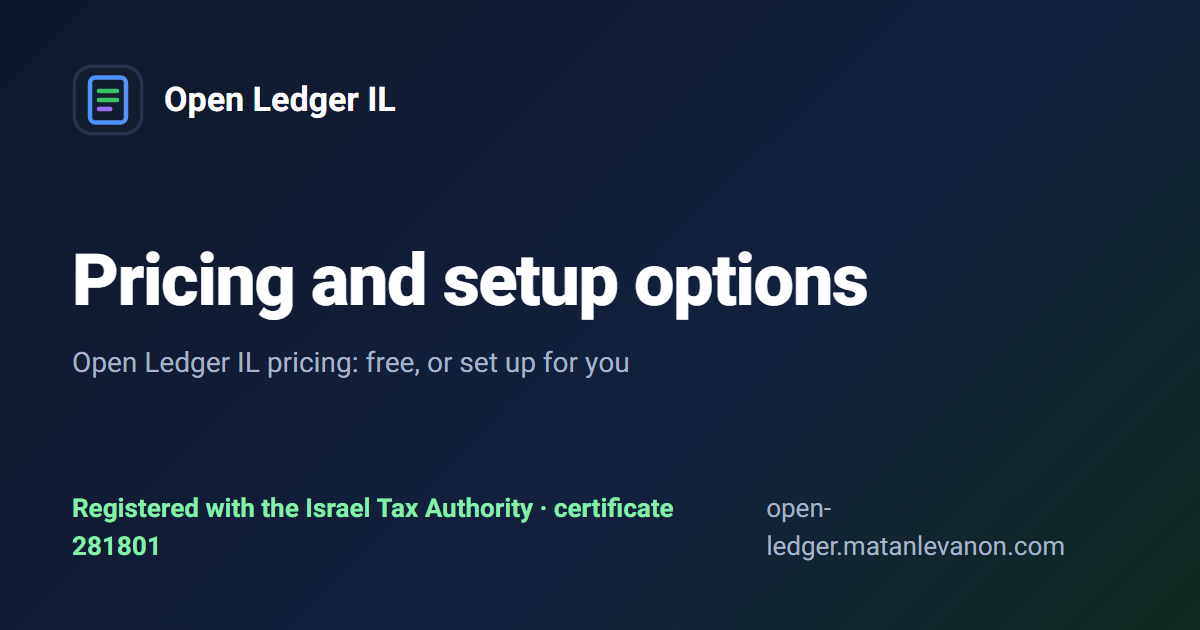
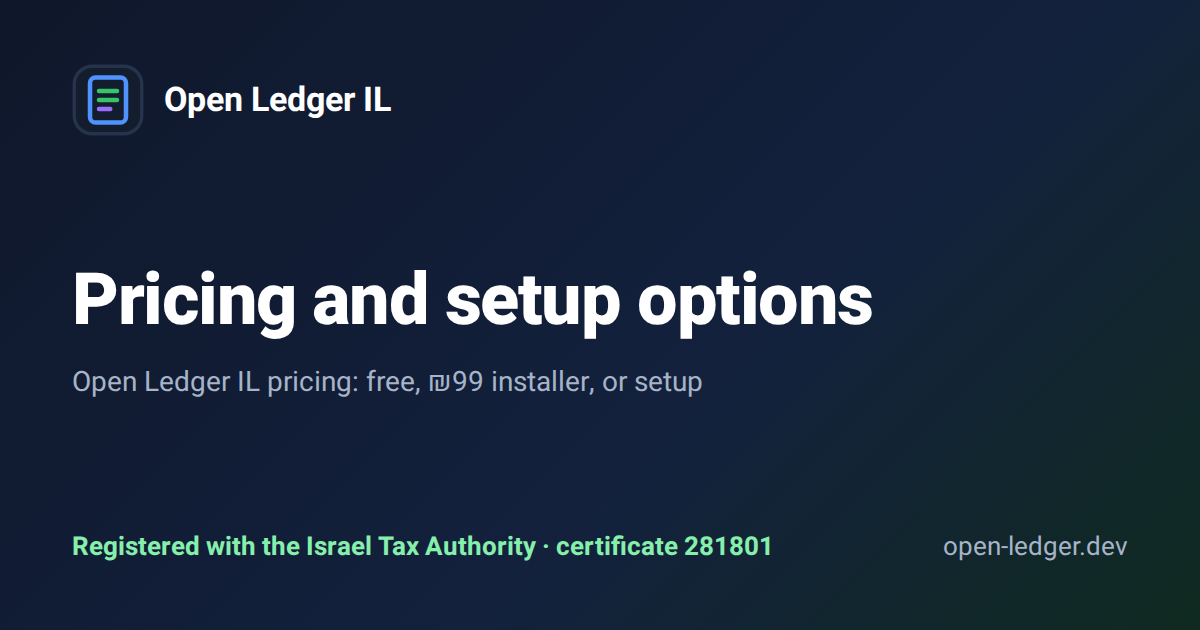
fix(site): SEO and GEO fixes from the audit
Pricing title, description and share card now name the ₪99 installer next to free and the ₪699 setup. Short help titles carry the brand (· Open Ledger IL). Launch pricing is called a launch price everywhere, llms.txt included. The setup form's Turnstile script loads only when the form nears the screen, so it no longer delays the pricing page's first paint. Every reply sends Strict-Transport-Security.

Changed region(s): [[0.0617, 0.3921, 0.74, 0.6333], [0.0617, 0.7841, 0.9558, 0.9048], [0.1542, 0.1206, 0.3392, 0.181]]

diff --git a/site/pricing/index.html b/site/pricing/index.html
@@ -3,16 +3,16 @@
 <head>
 <meta charset="utf-8">
 <meta name="viewport" content="width=device-width, initial-scale=1">
-<title>מחירים: Open Ledger IL בחינם או בהקמה עבורך</title>
-<meta name="description" content="הפעלת Open Ledger IL בחינם מקוד המקור, או הקמה עבורך ב-₪699 חד פעמי. מה צריך, איך זה עובד ומה המגבלות.">
+<title>מחירים: Open Ledger IL בחינם, ב-₪99 או בהקמה עבורך</title>
+<meta name="description" content="הפעלת Open Ledger IL בחינם מקוד המקור, התקנה עצמית עם תוכנת ההתקנה המחוברת ב-₪99, או הקמה עבורך ב-₪699. תשלום אחד, בלי מנוי.">
 <link rel="canonical" href="https://open-ledger.dev/pricing/">
 <link rel="alternate" hreflang="he" href="https://open-ledger.dev/pricing/">
 <link rel="alternate" hreflang="en" href="https://open-ledger.dev/en/pricing/">
 <link rel="alternate" hreflang="x-default" href="https://open-ledger.dev/pricing/">
 <link rel="alternate" type="text/markdown" href="/pricing/index.md">
 <meta property="og:site_name" content="Open Ledger IL">
-<meta property="og:title" content="מחירים: Open Ledger IL בחינם או בהקמה עבורך">
-<meta property="og:description" content="הפעלת Open Ledger IL בחינם מקוד המקור, או הקמה עבורך ב-₪699 חד פעמי. מה צריך, איך זה עובד ומה המגבלות.">
+<meta property="og:title" content="מחירים: Open Ledger IL בחינם, ב-₪99 או בהקמה עבורך">
+<meta property="og:description" content="הפעלת Open Ledger IL בחינם מקוד המקור, התקנה עצמית עם תוכנת ההתקנה המחוברת ב-₪99, או הקמה עבורך ב-₪699. תשלום אחד, בלי מנוי.">
 <meta property="og:type" content="website">
 <meta property="og:url" content="https://open-ledger.dev/pricing/">
 <meta property="og:image" content="https://open-ledger.dev/assets/og/he-pricing.png">
@@ -20,8 +20,8 @@
 <meta property="og:image:height" content="630">
 <meta property="og:locale" content="he_IL">
 <meta name="twitter:card" content="summary_large_image">
-<meta name="twitter:title" content="מחירים: Open Ledger IL בחינם או בהקמה עבורך">
-<meta name="twitter:description" content="הפעלת Open Ledger IL בחינם מקוד המקור, או הקמה עבורך ב-₪699 חד פעמי. מה צריך, איך זה עובד ומה המגבלות.">
+<meta name="twitter:title" content="מחירים: Open Ledger IL בחינם, ב-₪99 או בהקמה עבורך">
+<meta name="twitter:description" content="הפעלת Open Ledger IL בחינם מקוד המקור, התקנה עצמית עם תוכנת ההתקנה המחוברת ב-₪99, או הקמה עבורך ב-₪699. תשלום אחד, בלי מנוי.">
 <meta name="twitter:image" content="https://open-ledger.dev/assets/og/he-pricing.png">
 <link rel="icon" href="/favicon.svg" type="image/svg+xml">
 <link rel="preload" href="/assets/fonts/heebo-hebrew.7fec3b95.woff2" as="font" type="font/woff2" crossorigin>
@@ -313,7 +313,7 @@ section[id] { scroll-margin-top: 64px; }
 </style>
 <script type="application/ld+json">{"@context":"https://schema.org","@type":"Organization","@id":"https://open-ledger.dev/#organization","name":"Open Ledger IL","url":"https://open-ledger.dev/","logo":"https://open-ledger.dev/assets/logo.png","sameAs":["https://github.com/matanlevanon/open-ledger-il"]}</script>
 <script type="application/ld+json">{"@context":"https://schema.org","@type":"WebSite","@id":"https://open-ledger.dev/#website","name":"Open Ledger IL","url":"https://open-ledger.dev/","inLanguage":["he","en"],"publisher":{"@id":"https://open-ledger.dev/#organization"}}</script>
-<script type="application/ld+json">{"@context":"https://schema.org","@type":"SoftwareApplication","name":"Open Ledger IL","alternateName":"חשבונאות פתוחה","url":"https://open-ledger.dev/","description":"הפעלת Open Ledger IL בחינם מקוד המקור, או הקמה עבורך ב-₪699 חד פעמי. מה צריך, איך זה עובד ומה המגבלות.","applicationCategory":"BusinessApplication","operatingSystem":"Web","softwareVersion":"1.7.1","inLanguage":["he","en"],"license":"https://fsl.software/FSL-1.1-ALv2.template.md","offers":[{"@type":"Offer","name":"חינם מקוד המקור","price":"0","priceCurrency":"ILS"},{"@type":"Offer","name":"התקנה עצמית, מחוברת","price":"99","priceCurrency":"ILS","url":"https://get.open-ledger.dev/buy"},{"@type":"Offer","name":"הקמה עבורך","price":"699","priceCurrency":"ILS"}],"publisher":{"@id":"https://open-ledger.dev/#organization"},"screenshot":"https://open-ledger.dev/assets/screenshots/dashboard-he.c4a7384a.png"}</script>
+<script type="application/ld+json">{"@context":"https://schema.org","@type":"SoftwareApplication","name":"Open Ledger IL","alternateName":"חשבונאות פתוחה","url":"https://open-ledger.dev/","description":"הפעלת Open Ledger IL בחינם מקוד המקור, התקנה עצמית עם תוכנת ההתקנה המחוברת ב-₪99, או הקמה עבורך ב-₪699. תשלום אחד, בלי מנוי.","applicationCategory":"BusinessApplication","operatingSystem":"Web","softwareVersion":"1.7.1","inLanguage":["he","en"],"license":"https://fsl.software/FSL-1.1-ALv2.template.md","offers":[{"@type":"Offer","name":"חינם מקוד המקור","price":"0","priceCurrency":"ILS"},{"@type":"Offer","name":"התקנה עצמית, מחוברת","price":"99","priceCurrency":"ILS","url":"https://get.open-ledger.dev/buy"},{"@type":"Offer","name":"הקמה עבורך","price":"699","priceCurrency":"ILS"}],"publisher":{"@id":"https://open-ledger.dev/#organization"},"screenshot":"https://open-ledger.dev/assets/screenshots/dashboard-he.c4a7384a.png"}</script>
 <script type="application/ld+json">{"@context":"https://schema.org","@type":"BreadcrumbList","itemListElement":[{"@type":"ListItem","position":1,"name":"דף הבית","item":"https://open-ledger.dev/"},{"@type":"ListItem","position":2,"name":"מחירים","item":"https://open-ledger.dev/pricing/"}]}</script>
 </head>
 <body>
@@ -409,7 +409,7 @@ section[id] { scroll-margin-top: 64px; }
         <label class="full">משהו שכדאי שאדע<textarea name="message" rows="4"></textarea></label>
         <label class="hp" aria-hidden="true">Leave empty<input name="hp" tabindex="-1" autocomplete="off"></label>
         <div class="full cf-turnstile" data-sitekey="0x4AAAAAAFfBiE9Ucglunw0l" data-size="flexible" data-appearance="interaction-only"></div>
-        <script src="https://challenges.cloudflare.com/turnstile/v0/api.js" async defer></script>
+        <script>(function(){var d=false,f=document.querySelector(".setup-form");function go(){if(d)return;d=true;var s=document.createElement("script");s.src="https://challenges.cloudflare.com/turnstile/v0/api.js";s.async=true;document.head.appendChild(s);}if(!f||!("IntersectionObserver" in window)){go();return;}f.addEventListener("focusin",go,{once:true});new IntersectionObserver(function(e,o){if(e.some(function(x){return x.isIntersecting;})){go();o.disconnect();}},{rootMargin:"300px"}).observe(f);})();</script>
         <div class="full"><button class="btn btn-primary" type="submit">שליחת בקשה</button></div>
         <p class="status" role="status"></p>
       </form>
@@ -441,7 +441,7 @@ section[id] { scroll-margin-top: 64px; }
 
 
   <section class="plain" id="key-facts">
-    <div class="wrap"><div class="facts"><h2>עובדות עיקריות</h2><ul><li>Open Ledger IL רשומה ברשות המסים כתוכנה לניהול מערכת חשבונות ממוחשבת, בתעודה 281801.</li><li>היא רצה בחשבון Cloudflare של בעל העסק, והנתונים נשארים במסד הנתונים שלו.</li><li>היא חינמית לעסק שלכם, ברישיון FSL-1.1.</li><li>הקמה עבורך עולה ₪699, חד פעמי, בלי מנוי. זה מחיר השקה לגרסה הראשונה, 30% הנחה מהמחיר הרגיל של ₪999, לזמן מוגבל.</li><li>היא תומכת בעוסק פטור ובעוסק מורשה.</li><li>היא מבקשת מרשות המסים מספרי הקצאה לחשבוניות המס שצריכות אותם.</li><li>תוכנת ההתקנה המחוברת, שמריצים לבד, עולה ₪99, חד פעמי. זה מחיר השקה לגרסה הראשונה, 50% הנחה מהמחיר הרגיל של ₪199, לזמן מוגבל.</li></ul></div></div>
+    <div class="wrap"><div class="facts"><h2>עובדות עיקריות</h2><ul><li>Open Ledger IL רשומה ברשות המסים כתוכנה לניהול מערכת חשבונות ממוחשבת, בתעודה 281801.</li><li>היא רצה בחשבון Cloudflare של בעל העסק, והנתונים נשארים במסד הנתונים שלו.</li><li>היא חינמית לעסק שלכם, ברישיון FSL-1.1.</li><li>הקמה עבורך עולה ₪699, חד פעמי, בלי מנוי. זה מחיר השקה, 30% הנחה מהמחיר הרגיל של ₪999, לזמן מוגבל.</li><li>היא תומכת בעוסק פטור ובעוסק מורשה.</li><li>היא מבקשת מרשות המסים מספרי הקצאה לחשבוניות המס שצריכות אותם.</li><li>תוכנת ההתקנה המחוברת, שמריצים לבד, עולה ₪99, חד פעמי. זה מחיר השקה, 50% הנחה מהמחיר הרגיל של ₪199, לזמן מוגבל.</li></ul></div></div>
   </section>
   <section id="how">
     <div class="wrap">

diff --git a/site/en/pricing/index.html b/site/en/pricing/index.html
@@ -3,16 +3,16 @@
 <head>
 <meta charset="utf-8">
 <meta name="viewport" content="width=device-width, initial-scale=1">
-<title>Open Ledger IL pricing: free, or set up for you</title>
-<meta name="description" content="Run Open Ledger IL free from source, or have it set up for you for ₪699 once. What you need, how it works and the known limits.">
+<title>Open Ledger IL pricing: free, ₪99 installer, or setup</title>
+<meta name="description" content="Run Open Ledger IL free from source, install it yourself with the ₪99 connected installer, or have it set up for you for ₪699, once. No subscription.">
 <link rel="canonical" href="https://open-ledger.dev/en/pricing/">
 <link rel="alternate" hreflang="he" href="https://open-ledger.dev/pricing/">
 <link rel="alternate" hreflang="en" href="https://open-ledger.dev/en/pricing/">
 <link rel="alternate" hreflang="x-default" href="https://open-ledger.dev/pricing/">
 <link rel="alternate" type="text/markdown" href="/en/pricing/index.md">
 <meta property="og:site_name" content="Open Ledger IL">
-<meta property="og:title" content="Open Ledger IL pricing: free, or set up for you">
-<meta property="og:description" content="Run Open Ledger IL free from source, or have it set up for you for ₪699 once. What you need, how it works and the known limits.">
+<meta property="og:title" content="Open Ledger IL pricing: free, ₪99 installer, or setup">
+<meta property="og:description" content="Run Open Ledger IL free from source, install it yourself with the ₪99 connected installer, or have it set up for you for ₪699, once. No subscription.">
 <meta property="og:type" content="website">
 <meta property="og:url" content="https://open-ledger.dev/en/pricing/">
 <meta property="og:image" content="https://open-ledger.dev/assets/og/en-pricing.png">
@@ -20,8 +20,8 @@
 <meta property="og:image:height" content="630">
 <meta property="og:locale" content="en_US">
 <meta name="twitter:card" content="summary_large_image">
-<meta name="twitter:title" content="Open Ledger IL pricing: free, or set up for you">
-<meta name="twitter:description" content="Run Open Ledger IL free from source, or have it set up for you for ₪699 once. What you need, how it works and the known limits.">
+<meta name="twitter:title" content="Open Ledger IL pricing: free, ₪99 installer, or setup">
+<meta name="twitter:description" content="Run Open Ledger IL free from source, install it yourself with the ₪99 connected installer, or have it set up for you for ₪699, once. No subscription.">
 <meta name="twitter:image" content="https://open-ledger.dev/assets/og/en-pricing.png">
 <link rel="icon" href="/favicon.svg" type="image/svg+xml">
 <link rel="preload" href="/assets/fonts/heebo-latin.964dfe7c.woff2" as="font" type="font/woff2" crossorigin>
@@ -313,7 +313,7 @@ section[id] { scroll-margin-top: 64px; }
 </style>
 <script type="application/ld+json">{"@context":"https://schema.org","@type":"Organization","@id":"https://open-ledger.dev/#organization","name":"Open Ledger IL","url":"https://open-ledger.dev/","logo":"https://open-ledger.dev/assets/logo.png","sameAs":["https://github.com/matanlevanon/open-ledger-il"]}</script>
 <script type="application/ld+json">{"@context":"https://schema.org","@type":"WebSite","@id":"https://open-ledger.dev/#website","name":"Open Ledger IL","url":"https://open-ledger.dev/","inLanguage":["he","en"],"publisher":{"@id":"https://open-ledger.dev/#organization"}}</script>
-<script type="application/ld+json">{"@context":"https://schema.org","@type":"SoftwareApplication","name":"Open Ledger IL","alternateName":"חשבונאות פתוחה","url":"https://open-ledger.dev/en/","description":"Run Open Ledger IL free from source, or have it set up for you for ₪699 once. What you need, how it works and the known limits.","applicationCategory":"BusinessApplication","operatingSystem":"Web","softwareVersion":"1.7.1","inLanguage":["he","en"],"license":"https://fsl.software/FSL-1.1-ALv2.template.md","offers":[{"@type":"Offer","name":"Free from source","price":"0","priceCurrency":"ILS"},{"@type":"Offer","name":"Install it yourself, connected","price":"99","priceCurrency":"ILS","url":"https://get.open-ledger.dev/buy"},{"@type":"Offer","name":"Set up for you","price":"699","priceCurrency":"ILS"}],"publisher":{"@id":"https://open-ledger.dev/#organization"},"screenshot":"https://open-ledger.dev/assets/screenshots/dashboard.2662e9e1.png"}</script>
+<script type="application/ld+json">{"@context":"https://schema.org","@type":"SoftwareApplication","name":"Open Ledger IL","alternateName":"חשבונאות פתוחה","url":"https://open-ledger.dev/en/","description":"Run Open Ledger IL free from source, install it yourself with the ₪99 connected installer, or have it set up for you for ₪699, once. No subscription.","applicationCategory":"BusinessApplication","operatingSystem":"Web","softwareVersion":"1.7.1","inLanguage":["he","en"],"license":"https://fsl.software/FSL-1.1-ALv2.template.md","offers":[{"@type":"Offer","name":"Free from source","price":"0","priceCurrency":"ILS"},{"@type":"Offer","name":"Install it yourself, connected","price":"99","priceCurrency":"ILS","url":"https://get.open-ledger.dev/buy"},{"@type":"Offer","name":"Set up for you","price":"699","priceCurrency":"ILS"}],"publisher":{"@id":"https://open-ledger.dev/#organization"},"screenshot":"https://open-ledger.dev/assets/screenshots/dashboard.2662e9e1.png"}</script>
 <script type="application/ld+json">{"@context":"https://schema.org","@type":"BreadcrumbList","itemListElement":[{"@type":"ListItem","position":1,"name":"Home","item":"https://open-ledger.dev/en/"},{"@type":"ListItem","position":2,"name":"Pricing","item":"https://open-ledger.dev/en/pricing/"}]}</script>
 </head>
 <body>
@@ -409,7 +409,7 @@ section[id] { scroll-margin-top: 64px; }
         <label class="full">Anything I should know<textarea name="message" rows="4"></textarea></label>
         <label class="hp" aria-hidden="true">Leave empty<input name="hp" tabindex="-1" autocomplete="off"></label>
         <div class="full cf-turnstile" data-sitekey="0x4AAAAAAFfBiE9Ucglunw0l" data-size="flexible" data-appearance="interaction-only"></div>
-        <script src="https://challenges.cloudflare.com/turnstile/v0/api.js" async defer></script>
+        <script>(function(){var d=false,f=document.querySelector(".setup-form");function go(){if(d)return;d=true;var s=document.createElement("script");s.src="https://challenges.cloudflare.com/turnstile/v0/api.js";s.async=true;document.head.appendChild(s);}if(!f||!("IntersectionObserver" in window)){go();return;}f.addEventListener("focusin",go,{once:true});new IntersectionObserver(function(e,o){if(e.some(function(x){return x.isIntersecting;})){go();o.disconnect();}},{rootMargin:"300px"}).observe(f);})();</script>
         <div class="full"><button class="btn btn-primary" type="submit">Send request</button></div>
         <p class="status" role="status"></p>
       </form>
@@ -441,7 +441,7 @@ section[id] { scroll-margin-top: 64px; }
 
 
   <section class="plain" id="key-facts">
-    <div class="wrap"><div class="facts"><h2>Key facts</h2><ul><li>Open Ledger IL is registered with the Israel Tax Authority as software for a computerized accounting system, under certificate 281801.</li><li>It runs on the owner’s own Cloudflare account, and the data stays in the owner’s own database.</li><li>It is free for your own business under the FSL-1.1 licence.</li><li>Having it set up for you costs ₪699, once, with no subscription. That is a first-release price, 30% off the regular ₪999, for a limited time.</li><li>It supports עוסק פטור and עוסק מורשה businesses.</li><li>It requests allocation numbers (מספרי הקצאה) from the Tax Authority for the tax invoices that need them.</li><li>The connected installer, which you run yourself, costs ₪99, once. That is a first-release price, 50% off the regular ₪199, for a limited time.</li></ul></div></div>
+    <div class="wrap"><div class="facts"><h2>Key facts</h2><ul><li>Open Ledger IL is registered with the Israel Tax Authority as software for a computerized accounting system, under certificate 281801.</li><li>It runs on the owner’s own Cloudflare account, and the data stays in the owner’s own database.</li><li>It is free for your own business under the FSL-1.1 licence.</li><li>Having it set up for you costs ₪699, once, with no subscription. That is a launch price, 30% off the regular ₪999, for a limited time.</li><li>It supports עוסק פטור and עוסק מורשה businesses.</li><li>It requests allocation numbers (מספרי הקצאה) from the Tax Authority for the tax invoices that need them.</li><li>The connected installer, which you run yourself, costs ₪99, once. That is a launch price, 50% off the regular ₪199, for a limited time.</li></ul></div></div>
   </section>
   <section id="how">
     <div class="wrap">

diff --git a/site/help/install/index.html b/site/help/install/index.html
@@ -364,7 +364,7 @@ section[id] { scroll-margin-top: 64px; }
     <nav class="help-nav" aria-label="נושאים"><p>נושאים</p><ol><li><a href="/help/before-you-start/">לפני ההתקנה</a></li><li><a href="/help/install/" aria-current="page">התקנה</a></li><li><a href="/help/cloudflare-token/">API token ב-Cloudflare</a></li><li><a href="/help/first-sign-in/">כניסה ראשונה</a></li><li><a href="/help/users/">גישה לרואה חשבון וצוות</a></li><li><a href="/help/tax-authority/">רשות המסים</a></li><li><a href="/help/first-invoice/">מהצעת מחיר לקבלה</a></li><li><a href="/help/digital-signature/">חתימה דיגיטלית</a></li><li><a href="/help/payment-providers/">סולקים</a></li><li><a href="/help/expenses/">הוצאות</a></li><li><a href="/help/email/">מייל וספאם</a></li><li><a href="/help/connect-claude/">חיבור Claude (MCP)</a></li><li><a href="/help/api/">API לאפליקציות אחרות</a></li><li><a href="/help/keys-later/">הוספת מפתח</a></li><li><a href="/help/updates-backups/">עדכונים וגיבויים</a></li><li><a href="/help/troubleshooting/">בעיות נפוצות</a></li></ol></nav>
     <div class="prose">
       <p class="shot-cap" style="text-align:start">עודכן 2026-10-20</p>
-      <div class="buy-box"><h2>תוכנת ההתקנה מגיעה עם הרכישה</h2><p>קונים את תוכנת ההתקנה המחוברת ב-₪99, מחיר השקה לגרסה הראשונה (מחיר רגיל ₪199). מפתח הרישיון וקישור ההורדה מגיעים למייל תוך דקה.</p><ul><li>בלי בקשה לאפליקציית API ברשות המסים. מתחברים דרך האפליקציה המאושרת של MTN.</li><li>בלי שרת ישראלי או ממסר להפעיל. כל פנייה לרשות המסים יוצאת מכתובת ישראלית, ולכן לא נחסמת כמו Worker שרץ בחו&quot;ל.</li><li>בלי שורת פקודה. אשף מקים בחשבון Cloudflare שלכם את מסד הנתונים, הקבצים, הכניסה והכתובת, בערך ב-3 דקות.</li><li>הרצה חוזרת בהמשך מעדכנת, והנתונים נשארים.</li></ul><div class="guide-cta"><a class="btn btn-primary" href="https://get.open-ledger.dev/buy?lang=he" target="_blank" rel="noopener">לרכישת תוכנת ההתקנה</a><a class="btn btn-ghost" href="https://github.com/matanlevanon/open-ledger-il/blob/main/docs/deploy.md" target="_blank" rel="noopener">או התקנה עצמית, בחינם</a></div></div>
+      <div class="buy-box"><h2>תוכנת ההתקנה מגיעה עם הרכישה</h2><p>קונים את תוכנת ההתקנה המחוברת ב-₪99, מחיר השקה (מחיר רגיל ₪199). מפתח הרישיון וקישור ההורדה מגיעים למייל תוך דקה.</p><ul><li>בלי בקשה לאפליקציית API ברשות המסים. מתחברים דרך האפליקציה המאושרת של MTN.</li><li>בלי שרת ישראלי או ממסר להפעיל. כל פנייה לרשות המסים יוצאת מכתובת ישראלית, ולכן לא נחסמת כמו Worker שרץ בחו&quot;ל.</li><li>בלי שורת פקודה. אשף מקים בחשבון Cloudflare שלכם את מסד הנתונים, הקבצים, הכניסה והכתובת, בערך ב-3 דקות.</li><li>הרצה חוזרת בהמשך מעדכנת, והנתונים נשארים.</li></ul><div class="guide-cta"><a class="btn btn-primary" href="https://get.open-ledger.dev/buy?lang=he" target="_blank" rel="noopener">לרכישת תוכנת ההתקנה</a><a class="btn btn-ghost" href="https://github.com/matanlevanon/open-ledger-il/blob/main/docs/deploy.md" target="_blank" rel="noopener">או התקנה עצמית, בחינם</a></div></div>
       <p>תוכנת ההתקנה היא הדרך בתשלום, המחוברת, להתקין את Open Ledger IL. קונים אותה פעם אחת בחנות, ומייל הרכישה מביא את מפתח הרישיון ואת קישור ההורדה. קודם קראו את <a href="/help/before-you-start/">לפני ההתקנה</a>.</p>
 <h2 id="מה-תוכנת-ההתקנה-חוסכת">מה תוכנת ההתקנה חוסכת</h2>
 <p>התקנה מקוד המקור חינמית, ו<a href="https://github.com/matanlevanon/open-ledger-il/blob/main/docs/deploy.md" rel="noopener" target="_blank">מדריך ההתקנה</a> מסביר אותה. תוכנת ההתקנה מדלגת על החלקים הקשים:</p>

diff --git a/site/en/help/install/index.html b/site/en/help/install/index.html
@@ -364,7 +364,7 @@ section[id] { scroll-margin-top: 64px; }
     <nav class="help-nav" aria-label="Topics"><p>Topics</p><ol><li><a href="/en/help/before-you-start/">Before you install</a></li><li><a href="/en/help/install/" aria-current="page">Install</a></li><li><a href="/en/help/cloudflare-token/">Cloudflare API token</a></li><li><a href="/en/help/first-sign-in/">First sign-in</a></li><li><a href="/en/help/users/">Accountant and team access</a></li><li><a href="/en/help/tax-authority/">Tax Authority</a></li><li><a href="/en/help/first-invoice/">Quote to receipt</a></li><li><a href="/en/help/digital-signature/">Digital signature</a></li><li><a href="/en/help/payment-providers/">Payment providers</a></li><li><a href="/en/help/expenses/">Expenses</a></li><li><a href="/en/help/email/">Email and spam</a></li><li><a href="/en/help/connect-claude/">Connect Claude (MCP)</a></li><li><a href="/en/help/api/">API for other apps</a></li><li><a href="/en/help/keys-later/">Add a key later</a></li><li><a href="/en/help/updates-backups/">Updates and backups</a></li><li><a href="/en/help/troubleshooting/">Common problems</a></li></ol></nav>
     <div class="prose">
       <p class="shot-cap" style="text-align:start">Updated 2026-10-20</p>
-      <div class="buy-box"><h2>The installer comes with your purchase</h2><p>Buy the connected installer for ₪99, a first-release price (regular ₪199). The licence key and the download link reach your email within a minute.</p><ul><li>No Tax Authority API app to apply for. You connect through MTN&#x27;s approved app.</li><li>No Israeli server or relay to run. Every Tax Authority call leaves from an Israeli address, so it never gets the 403 a Worker abroad gets.</li><li>No command line. A wizard creates the database, the files, the sign-in and the address in your Cloudflare account, in about 3 minutes.</li><li>Run it again later to update, and your data stays.</li></ul><div class="guide-cta"><a class="btn btn-primary" href="https://get.open-ledger.dev/buy" target="_blank" rel="noopener">Buy the installer</a><a class="btn btn-ghost" href="https://github.com/matanlevanon/open-ledger-il/blob/main/docs/deploy.md" target="_blank" rel="noopener">Or set it up yourself, free</a></div></div>
+      <div class="buy-box"><h2>The installer comes with your purchase</h2><p>Buy the connected installer for ₪99, a launch price (regular ₪199). The licence key and the download link reach your email within a minute.</p><ul><li>No Tax Authority API app to apply for. You connect through MTN&#x27;s approved app.</li><li>No Israeli server or relay to run. Every Tax Authority call leaves from an Israeli address, so it never gets the 403 a Worker abroad gets.</li><li>No command line. A wizard creates the database, the files, the sign-in and the address in your Cloudflare account, in about 3 minutes.</li><li>Run it again later to update, and your data stays.</li></ul><div class="guide-cta"><a class="btn btn-primary" href="https://get.open-ledger.dev/buy" target="_blank" rel="noopener">Buy the installer</a><a class="btn btn-ghost" href="https://github.com/matanlevanon/open-ledger-il/blob/main/docs/deploy.md" target="_blank" rel="noopener">Or set it up yourself, free</a></div></div>
       <p>The installer is the paid, connected way to install Open Ledger IL. You buy it once on the shop, and the purchase email brings the licence key and the download link. Read <a href="/en/help/before-you-start/">Before you install</a> first.</p>
 <h2 id="what-the-installer-saves-you">What the installer saves you</h2>
 <p>Setting up from the source code is free, and the <a href="https://github.com/matanlevanon/open-ledger-il/blob/main/docs/deploy.md" rel="noopener" target="_blank">setup guide</a> covers it. The installer skips the hard parts:</p>

diff --git a/site/index.html b/site/index.html
@@ -468,7 +468,7 @@ section[id] { scroll-margin-top: 64px; }
     </div>
   </section>
   <section class="plain" id="key-facts">
-    <div class="wrap"><div class="facts"><h2>עובדות עיקריות</h2><ul><li>Open Ledger IL רשומה ברשות המסים כתוכנה לניהול מערכת חשבונות ממוחשבת, בתעודה 281801.</li><li>היא רצה בחשבון Cloudflare של בעל העסק, והנתונים נשארים במסד הנתונים שלו.</li><li>היא חינמית לעסק שלכם, ברישיון FSL-1.1.</li><li>הקמה עבורך עולה ₪699, חד פעמי, בלי מנוי. זה מחיר השקה לגרסה הראשונה, 30% הנחה מהמחיר הרגיל של ₪999, לזמן מוגבל.</li><li>היא תומכת בעוסק פטור ובעוסק מורשה.</li><li>היא מבקשת מרשות המסים מספרי הקצאה לחשבוניות המס שצריכות אותם.</li><li>תוכנת ההתקנה המחוברת, שמריצים לבד, עולה ₪99, חד פעמי. זה מחיר השקה לגרסה הראשונה, 50% הנחה מהמחיר הרגיל של ₪199, לזמן מוגבל.</li></ul></div></div>
+    <div class="wrap"><div class="facts"><h2>עובדות עיקריות</h2><ul><li>Open Ledger IL רשומה ברשות המסים כתוכנה לניהול מערכת חשבונות ממוחשבת, בתעודה 281801.</li><li>היא רצה בחשבון Cloudflare של בעל העסק, והנתונים נשארים במסד הנתונים שלו.</li><li>היא חינמית לעסק שלכם, ברישיון FSL-1.1.</li><li>הקמה עבורך עולה ₪699, חד פעמי, בלי מנוי. זה מחיר השקה, 30% הנחה מהמחיר הרגיל של ₪999, לזמן מוגבל.</li><li>היא תומכת בעוסק פטור ובעוסק מורשה.</li><li>היא מבקשת מרשות המסים מספרי הקצאה לחשבוניות המס שצריכות אותם.</li><li>תוכנת ההתקנה המחוברת, שמריצים לבד, עולה ₪99, חד פעמי. זה מחיר השקה, 50% הנחה מהמחיר הרגיל של ₪199, לזמן מוגבל.</li></ul></div></div>
   </section>
   <section class="strip">
     <div class="wrap">

diff --git a/site/help/keys-later/index.html b/site/help/keys-later/index.html
@@ -3,7 +3,7 @@
 <head>
 <meta charset="utf-8">
 <meta name="viewport" content="width=device-width, initial-scale=1">
-<title>הוספה או החלפה של מפתח אחרי ההתקנה</title>
+<title>הוספה או החלפה של מפתח אחרי ההתקנה · Open Ledger IL</title>
 <meta name="description" content="הוספת מפתח Gemini, Anthropic, Resend, Slack או גוגל דרייב ללדג&#x27;ר דרך לוח הבקרה של Cloudflare, בלי להריץ שוב את ההתקנה.">
 <link rel="canonical" href="https://open-ledger.dev/help/keys-later/">
 <link rel="alternate" hreflang="he" href="https://open-ledger.dev/help/keys-later/">
@@ -11,7 +11,7 @@
 <link rel="alternate" hreflang="x-default" href="https://open-ledger.dev/help/keys-later/">
 <link rel="alternate" type="text/markdown" href="/help/keys-later/index.md">
 <meta property="og:site_name" content="Open Ledger IL">
-<meta property="og:title" content="הוספה או החלפה של מפתח אחרי ההתקנה">
+<meta property="og:title" content="הוספה או החלפה של מפתח אחרי ההתקנה · Open Ledger IL">
 <meta property="og:description" content="הוספת מפתח Gemini, Anthropic, Resend, Slack או גוגל דרייב ללדג&#x27;ר דרך לוח הבקרה של Cloudflare, בלי להריץ שוב את ההתקנה.">
 <meta property="og:type" content="article">
 <meta property="og:url" content="https://open-ledger.dev/help/keys-later/">
@@ -20,7 +20,7 @@
 <meta property="og:image:height" content="630">
 <meta property="og:locale" content="he_IL">
 <meta name="twitter:card" content="summary_large_image">
-<meta name="twitter:title" content="הוספה או החלפה של מפתח אחרי ההתקנה">
+<meta name="twitter:title" content="הוספה או החלפה של מפתח אחרי ההתקנה · Open Ledger IL">
 <meta name="twitter:description" content="הוספת מפתח Gemini, Anthropic, Resend, Slack או גוגל דרייב ללדג&#x27;ר דרך לוח הבקרה של Cloudflare, בלי להריץ שוב את ההתקנה.">
 <meta name="twitter:image" content="https://open-ledger.dev/assets/og/default.png">
 <link rel="icon" href="/favicon.svg" type="image/svg+xml">

diff --git a/site/help/payment-providers/index.html b/site/help/payment-providers/index.html
@@ -3,7 +3,7 @@
 <head>
 <meta charset="utf-8">
 <meta name="viewport" content="width=device-width, initial-scale=1">
-<title>גבייה עם גרואו, קארדקום או סולק אחר</title>
+<title>גבייה עם גרואו, קארדקום או סולק אחר · Open Ledger IL</title>
 <meta name="description" content="סולק גובה את הכסף והלדג&#x27;ר מוציא את הקבלות, ידנית או אוטומטית, בלי שני מסמכים לאותו תשלום.">
 <link rel="canonical" href="https://open-ledger.dev/help/payment-providers/">
 <link rel="alternate" hreflang="he" href="https://open-ledger.dev/help/payment-providers/">
@@ -11,7 +11,7 @@
 <link rel="alternate" hreflang="x-default" href="https://open-ledger.dev/help/payment-providers/">
 <link rel="alternate" type="text/markdown" href="/help/payment-providers/index.md">
 <meta property="og:site_name" content="Open Ledger IL">
-<meta property="og:title" content="גבייה עם גרואו, קארדקום או סולק אחר">
+<meta property="og:title" content="גבייה עם גרואו, קארדקום או סולק אחר · Open Ledger IL">
 <meta property="og:description" content="סולק גובה את הכסף והלדג&#x27;ר מוציא את הקבלות, ידנית או אוטומטית, בלי שני מסמכים לאותו תשלום.">
 <meta property="og:type" content="article">
 <meta property="og:url" content="https://open-ledger.dev/help/payment-providers/">
@@ -20,7 +20,7 @@
 <meta property="og:image:height" content="630">
 <meta property="og:locale" content="he_IL">
 <meta name="twitter:card" content="summary_large_image">
-<meta name="twitter:title" content="גבייה עם גרואו, קארדקום או סולק אחר">
+<meta name="twitter:title" content="גבייה עם גרואו, קארדקום או סולק אחר · Open Ledger IL">
 <meta name="twitter:description" content="סולק גובה את הכסף והלדג&#x27;ר מוציא את הקבלות, ידנית או אוטומטית, בלי שני מסמכים לאותו תשלום.">
 <meta name="twitter:image" content="https://open-ledger.dev/assets/og/default.png">
 <link rel="icon" href="/favicon.svg" type="image/svg+xml">

diff --git a/site/help/troubleshooting/index.html b/site/help/troubleshooting/index.html
@@ -3,7 +3,7 @@
 <head>
 <meta charset="utf-8">
 <meta name="viewport" content="width=device-width, initial-scale=1">
-<title>בעיות נפוצות ואיך פותרים אותן</title>
+<title>בעיות נפוצות ואיך פותרים אותן · Open Ledger IL</title>
 <meta name="description" content="פתרונות למקומות שבהם נתקעים: אזהרות Windows, הטוקן של Cloudflare, Zero Trust, מפתחות שנדחים, כניסה, הורדות ומייל.">
 <link rel="canonical" href="https://open-ledger.dev/help/troubleshooting/">
 <link rel="alternate" hreflang="he" href="https://open-ledger.dev/help/troubleshooting/">
@@ -11,7 +11,7 @@
 <link rel="alternate" hreflang="x-default" href="https://open-ledger.dev/help/troubleshooting/">
 <link rel="alternate" type="text/markdown" href="/help/troubleshooting/index.md">
 <meta property="og:site_name" content="Open Ledger IL">
-<meta property="og:title" content="בעיות נפוצות ואיך פותרים אותן">
+<meta property="og:title" content="בעיות נפוצות ואיך פותרים אותן · Open Ledger IL">
 <meta property="og:description" content="פתרונות למקומות שבהם נתקעים: אזהרות Windows, הטוקן של Cloudflare, Zero Trust, מפתחות שנדחים, כניסה, הורדות ומייל.">
 <meta property="og:type" content="article">
 <meta property="og:url" content="https://open-ledger.dev/help/troubleshooting/">
@@ -20,7 +20,7 @@
 <meta property="og:image:height" content="630">
 <meta property="og:locale" content="he_IL">
 <meta name="twitter:card" content="summary_large_image">
-<meta name="twitter:title" content="בעיות נפוצות ואיך פותרים אותן">
+<meta name="twitter:title" content="בעיות נפוצות ואיך פותרים אותן · Open Ledger IL">
 <meta name="twitter:description" content="פתרונות למקומות שבהם נתקעים: אזהרות Windows, הטוקן של Cloudflare, Zero Trust, מפתחות שנדחים, כניסה, הורדות ומייל.">
 <meta name="twitter:image" content="https://open-ledger.dev/assets/og/default.png">
 <link rel="icon" href="/favicon.svg" type="image/svg+xml">

diff --git a/site/help/tax-authority/index.html b/site/help/tax-authority/index.html
@@ -3,7 +3,7 @@
 <head>
 <meta charset="utf-8">
 <meta name="viewport" content="width=device-width, initial-scale=1">
-<title>חיבור לרשות המסים למספרי הקצאה</title>
+<title>חיבור לרשות המסים למספרי הקצאה · Open Ledger IL</title>
 <meta name="description" content="מספרי הקצאה עם תוכנת ההתקנה או בהתקנה עצמית: מה כל דרך דורשת, איך מתחברים, וההתחברות מחדש כל 90 יום.">
 <link rel="canonical" href="https://open-ledger.dev/help/tax-authority/">
 <link rel="alternate" hreflang="he" href="https://open-ledger.dev/help/tax-authority/">
@@ -11,7 +11,7 @@
 <link rel="alternate" hreflang="x-default" href="https://open-ledger.dev/help/tax-authority/">
 <link rel="alternate" type="text/markdown" href="/help/tax-authority/index.md">
 <meta property="og:site_name" content="Open Ledger IL">
-<meta property="og:title" content="חיבור לרשות המסים למספרי הקצאה">
+<meta property="og:title" content="חיבור לרשות המסים למספרי הקצאה · Open Ledger IL">
 <meta property="og:description" content="מספרי הקצאה עם תוכנת ההתקנה או בהתקנה עצמית: מה כל דרך דורשת, איך מתחברים, וההתחברות מחדש כל 90 יום.">
 <meta property="og:type" content="article">
 <meta property="og:url" content="https://open-ledger.dev/help/tax-authority/">
@@ -20,7 +20,7 @@
 <meta property="og:image:height" content="630">
 <meta property="og:locale" content="he_IL">
 <meta name="twitter:card" content="summary_large_image">
-<meta name="twitter:title" content="חיבור לרשות המסים למספרי הקצאה">
+<meta name="twitter:title" content="חיבור לרשות המסים למספרי הקצאה · Open Ledger IL">
 <meta name="twitter:description" content="מספרי הקצאה עם תוכנת ההתקנה או בהתקנה עצמית: מה כל דרך דורשת, איך מתחברים, וההתחברות מחדש כל 90 יום.">
 <meta name="twitter:image" content="https://open-ledger.dev/assets/og/default.png">
 <link rel="icon" href="/favicon.svg" type="image/svg+xml">

diff --git a/site/help/email/index.html b/site/help/email/index.html
@@ -3,7 +3,7 @@
 <head>
 <meta charset="utf-8">
 <meta name="viewport" content="width=device-width, initial-scale=1">
-<title>שליחת מסמכים במייל, בלי ספאם</title>
+<title>שליחת מסמכים במייל, בלי ספאם · Open Ledger IL</title>
 <meta name="description" content="חיבור Resend כדי שהלדג&#x27;ר ישלח קבלות וחשבוניות מהדומיין שלכם, והגדרות ה-DNS והניסוח שמשאירים אותן בתיבה הראשית.">
 <link rel="canonical" href="https://open-ledger.dev/help/email/">
 <link rel="alternate" hreflang="he" href="https://open-ledger.dev/help/email/">
@@ -11,7 +11,7 @@
 <link rel="alternate" hreflang="x-default" href="https://open-ledger.dev/help/email/">
 <link rel="alternate" type="text/markdown" href="/help/email/index.md">
 <meta property="og:site_name" content="Open Ledger IL">
-<meta property="og:title" content="שליחת מסמכים במייל, בלי ספאם">
+<meta property="og:title" content="שליחת מסמכים במייל, בלי ספאם · Open Ledger IL">
 <meta property="og:description" content="חיבור Resend כדי שהלדג&#x27;ר ישלח קבלות וחשבוניות מהדומיין שלכם, והגדרות ה-DNS והניסוח שמשאירים אותן בתיבה הראשית.">
 <meta property="og:type" content="article">
 <meta property="og:url" content="https://open-ledger.dev/help/email/">
@@ -20,7 +20,7 @@
 <meta property="og:image:height" content="630">
 <meta property="og:locale" content="he_IL">
 <meta name="twitter:card" content="summary_large_image">
-<meta name="twitter:title" content="שליחת מסמכים במייל, בלי ספאם">
+<meta name="twitter:title" content="שליחת מסמכים במייל, בלי ספאם · Open Ledger IL">
 <meta name="twitter:description" content="חיבור Resend כדי שהלדג&#x27;ר ישלח קבלות וחשבוניות מהדומיין שלכם, והגדרות ה-DNS והניסוח שמשאירים אותן בתיבה הראשית.">
 <meta name="twitter:image" content="https://open-ledger.dev/assets/og/default.png">
 <link rel="icon" href="/favicon.svg" type="image/svg+xml">

diff --git a/site/help/first-invoice/index.html b/site/help/first-invoice/index.html
@@ -3,7 +3,7 @@
 <head>
 <meta charset="utf-8">
 <meta name="viewport" content="width=device-width, initial-scale=1">
-<title>מהצעת מחיר לקבלה: המסמכים הראשונים</title>
+<title>מהצעת מחיר לקבלה: המסמכים הראשונים · Open Ledger IL</title>
 <meta name="description" content="סדר המסמכים בלדג&#x27;ר, מהצעת מחיר ודרישת תשלום ועד הקבלה, ולמה הקבלה היא המסמך שנחשב.">
 <link rel="canonical" href="https://open-ledger.dev/help/first-invoice/">
 <link rel="alternate" hreflang="he" href="https://open-ledger.dev/help/first-invoice/">
@@ -11,7 +11,7 @@
 <link rel="alternate" hreflang="x-default" href="https://open-ledger.dev/help/first-invoice/">
 <link rel="alternate" type="text/markdown" href="/help/first-invoice/index.md">
 <meta property="og:site_name" content="Open Ledger IL">
-<meta property="og:title" content="מהצעת מחיר לקבלה: המסמכים הראשונים">
+<meta property="og:title" content="מהצעת מחיר לקבלה: המסמכים הראשונים · Open Ledger IL">
 <meta property="og:description" content="סדר המסמכים בלדג&#x27;ר, מהצעת מחיר ודרישת תשלום ועד הקבלה, ולמה הקבלה היא המסמך שנחשב.">
 <meta property="og:type" content="article">
 <meta property="og:url" content="https://open-ledger.dev/help/first-invoice/">
@@ -20,7 +20,7 @@
 <meta property="og:image:height" content="630">
 <meta property="og:locale" content="he_IL">
 <meta name="twitter:card" content="summary_large_image">
-<meta name="twitter:title" content="מהצעת מחיר לקבלה: המסמכים הראשונים">
+<meta name="twitter:title" content="מהצעת מחיר לקבלה: המסמכים הראשונים · Open Ledger IL">
 <meta name="twitter:description" content="סדר המסמכים בלדג&#x27;ר, מהצעת מחיר ודרישת תשלום ועד הקבלה, ולמה הקבלה היא המסמך שנחשב.">
 <meta name="twitter:image" content="https://open-ledger.dev/assets/og/default.png">
 <link rel="icon" href="/favicon.svg" type="image/svg+xml">

diff --git a/site/help/connect-claude/index.html b/site/help/connect-claude/index.html
@@ -3,7 +3,7 @@
 <head>
 <meta charset="utf-8">
 <meta name="viewport" content="width=device-width, initial-scale=1">
-<title>חיבור Claude או אפליקציית AI אחרת (MCP)</title>
+<title>חיבור Claude או אפליקציית AI אחרת (MCP) · Open Ledger IL</title>
 <meta name="description" content="נותנים ל-Claude Desktop או ל-Claude Code גישה ללדג&#x27;ר עם כתובת ה-MCP והטוקן, ומה עושים כשהטוקן אבד.">
 <link rel="canonical" href="https://open-ledger.dev/help/connect-claude/">
 <link rel="alternate" hreflang="he" href="https://open-ledger.dev/help/connect-claude/">
@@ -11,7 +11,7 @@
 <link rel="alternate" hreflang="x-default" href="https://open-ledger.dev/help/connect-claude/">
 <link rel="alternate" type="text/markdown" href="/help/connect-claude/index.md">
 <meta property="og:site_name" content="Open Ledger IL">
-<meta property="og:title" content="חיבור Claude או אפליקציית AI אחרת (MCP)">
+<meta property="og:title" content="חיבור Claude או אפליקציית AI אחרת (MCP) · Open Ledger IL">
 <meta property="og:description" content="נותנים ל-Claude Desktop או ל-Claude Code גישה ללדג&#x27;ר עם כתובת ה-MCP והטוקן, ומה עושים כשהטוקן אבד.">
 <meta property="og:type" content="article">
 <meta property="og:url" content="https://open-ledger.dev/help/connect-claude/">
@@ -20,7 +20,7 @@
 <meta property="og:image:height" content="630">
 <meta property="og:locale" content="he_IL">
 <meta name="twitter:card" content="summary_large_image">
-<meta name="twitter:title" content="חיבור Claude או אפליקציית AI אחרת (MCP)">
+<meta name="twitter:title" content="חיבור Claude או אפליקציית AI אחרת (MCP) · Open Ledger IL">
 <meta name="twitter:description" content="נותנים ל-Claude Desktop או ל-Claude Code גישה ללדג&#x27;ר עם כתובת ה-MCP והטוקן, ומה עושים כשהטוקן אבד.">
 <meta name="twitter:image" content="https://open-ledger.dev/assets/og/default.png">
 <link rel="icon" href="/favicon.svg" type="image/svg+xml">
